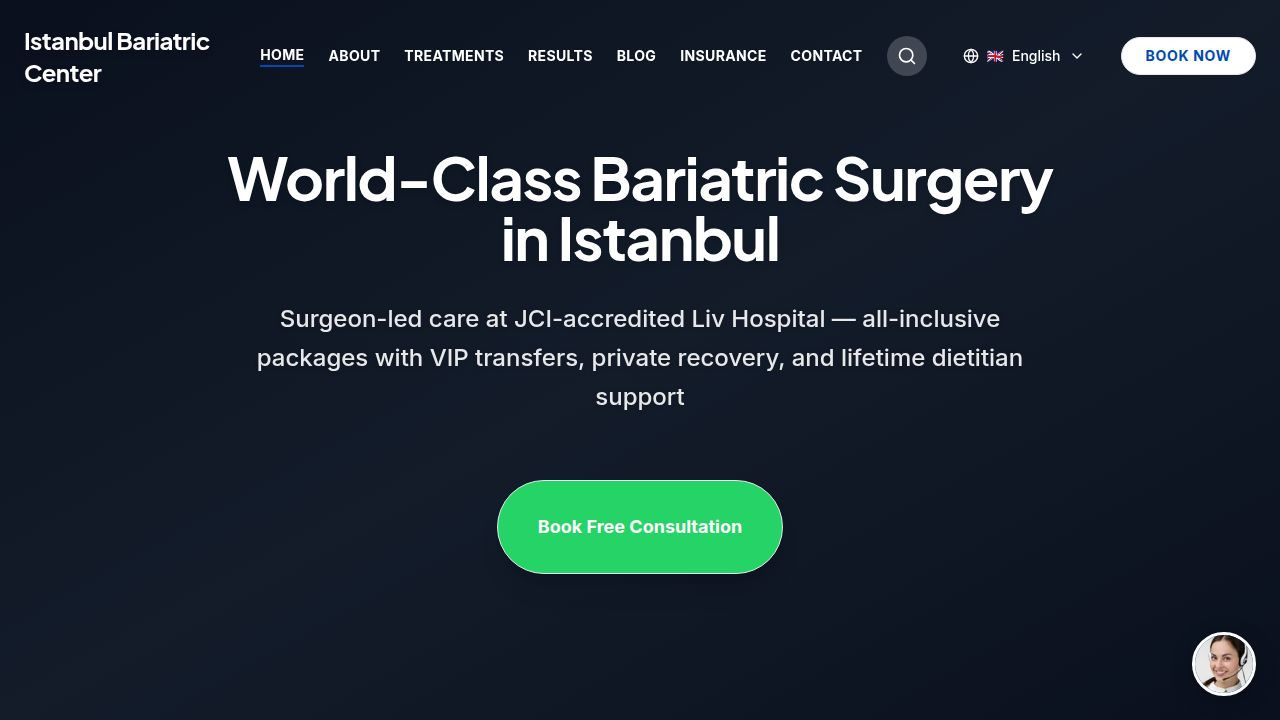
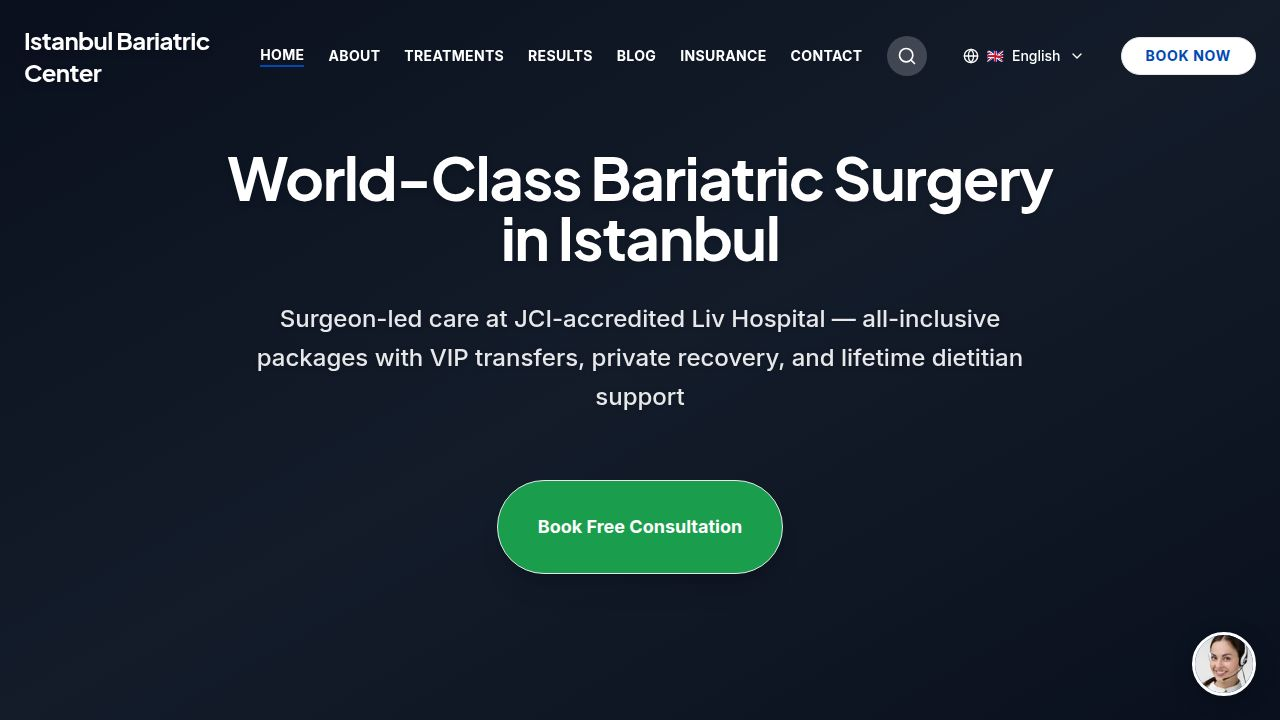
Add new blog post about ileal transposition surgery for diabetes
Adds a new blog post to `client/src/data/blog-posts.ts` detailing ileal transposition surgery for diabetes, and updates `server/seo-data.ts` and `replit.md` accordingly.

Replit-Commit-Author: Agent
Replit-Commit-Session-Id: 6d215705-d993-4a55-979c-6935727e0473
Replit-Commit-Checkpoint-Type: full_checkpoint
Replit-Commit-Event-Id: 6b8dd9d1-880f-4d2a-b2a1-ee0fcb01cec2
Replit-Commit-Screenshot-Url: https://storage.googleapis.com/screenshot-production-us-central1/63424575-081f-4c80-94dd-5da2f2b48f81/6d215705-d993-4a55-979c-6935727e0473/IMaN2Lw
Replit-Helium-Checkpoint-Created: true

Changed region(s): [[0.375, 0.6417, 0.625, 0.7944]]

diff --git a/client/src/data/blog-posts.ts b/client/src/data/blog-posts.ts
@@ -10,6 +10,214 @@ export interface BlogPost {
 
 export const blogPosts: BlogPost[] = [
   {
+    slug: "ileal-transposition-surgery-diabetes",
+    title: "Ileal Transposition Surgery for Diabetes: What Patients Need to Know",
+    date: "March 9, 2026",
+    category: "Metabolic Surgery",
+    excerpt: "Ileal transposition is an investigational metabolic procedure that repositions part of the small intestine to boost natural gut hormones like GLP-1. Learn how it works, who it is for, and why it is not yet a standard treatment for diabetes.",
+    image: "/blog-ileal-cover.webp",
+    content: `<h2>Ileal Transposition Surgery for Diabetes: A Complete Patient Guide</h2>
+<p>Type 2 diabetes is one of the most widespread chronic conditions in the world. For millions of people, managing blood sugar through diet, exercise, and medication is a lifelong challenge. Over the past two decades, bariatric and metabolic surgery has proven remarkably effective at putting type 2 diabetes into remission — sometimes even before significant weight loss occurs. This has led researchers to explore whether surgically altering the gut could treat diabetes directly, even in patients who are not severely overweight.</p>
+
+<p>One of the most intriguing procedures to emerge from this line of research is <strong>ileal transposition</strong> (IT). Unlike conventional bariatric surgeries such as gastric sleeve or gastric bypass, ileal transposition does not dramatically reduce the size of the stomach or bypass large segments of the intestine. Instead, it repositions a short segment of the lower small intestine to a higher position, triggering a powerful hormonal response that improves how the body handles glucose and insulin.</p>
+
+<p>In this article, we will explain what ileal transposition is, how it works, who might benefit from it, and why it remains an investigational procedure rather than a standard treatment option.</p>
+
+<img loading="lazy" src="/blog-ileal-cover.webp" alt="Modern hospital operating room prepared for laparoscopic metabolic surgery" class="w-full rounded-lg my-6" />
+
+<h2>What Is Ileal Transposition Surgery?</h2>
+<p>Ileal transposition is a surgical procedure in which a segment of the <strong>distal ileum</strong> (the last part of the small intestine, typically 10–20 cm) is detached and relocated to a higher position in the intestinal tract — usually near the <strong>duodenum</strong> or <strong>proximal jejunum</strong>.</p>
+
+<p>The key idea is simple but powerful: by moving this segment upstream, the food you eat reaches the ileum much sooner than it normally would. This early contact triggers the release of important gut hormones that regulate blood sugar, appetite, and metabolism.</p>
+
+<p>The procedure is typically performed <strong>laparoscopically</strong> (through small incisions) and takes approximately 2–3 hours. It requires two or three intestinal reconnections (anastomoses), making it technically more complex than a standard sleeve gastrectomy or even a gastric bypass.</p>
+
+<img loading="lazy" src="/blog-ileal-transposition-diagram.webp" alt="Anatomical diagram showing ileal transposition surgery with the distal ileum relocated to the proximal jejunum" class="w-full rounded-lg my-6" />
+
+<h2>The Science Behind It: The Hindgut Hypothesis</h2>
+<p>To understand why ileal transposition works, we need to understand a concept called the <strong>hindgut hypothesis</strong>. This theory has become one of the most important ideas in metabolic surgery.</p>
+
+<h3>How the Hindgut Hypothesis Works</h3>
+<p>Your small intestine is lined with specialised cells called <strong>L-cells</strong>, which are concentrated in the distal ileum (the "hindgut"). When partially digested food reaches these L-cells, they release two critical hormones:</p>
+
+<ul>
+<li><strong>GLP-1 (Glucagon-Like Peptide-1):</strong> This hormone stimulates the pancreas to produce insulin, suppresses glucagon (a hormone that raises blood sugar), slows gastric emptying, and reduces appetite. GLP-1 is so effective at managing diabetes that an entire class of medications — GLP-1 receptor agonists like semaglutide and liraglutide — has been developed to mimic its effects.</li>
+<li><strong>PYY (Peptide YY):</strong> This hormone signals satiety (fullness), slows gut motility, and helps regulate food intake. Together with GLP-1, it acts as a natural appetite suppressant.</li>
+</ul>
+
+<p>In a normal digestive process, food takes a relatively long time to reach the distal ileum, so L-cells are stimulated late in the digestive cycle. With ileal transposition, the relocated ileal segment is exposed to nutrients within minutes of eating, triggering a <strong>much earlier and more robust release of GLP-1 and PYY</strong>.</p>
+
+<img loading="lazy" src="/blog-ileal-glp1-mechanism.webp" alt="Medical illustration showing GLP-1 and PYY hormone release from L-cells in the ileum and their effects on insulin and appetite" class="w-full rounded-lg my-6" />
+
+<h3>What the Research Shows</h3>
+<p>Studies in both animal models and humans have demonstrated remarkable hormonal changes after ileal transposition:</p>
+
+<ul>
+<li><strong>3-fold increase</strong> in GLP-1 levels after meals</li>
+<li><strong>3-fold increase</strong> in PYY excursions</li>
+<li><strong>8-fold higher fasting PYY levels</strong></li>
+<li>Improved insulin secretion within the first week after surgery</li>
+<li>Better blood sugar control that often precedes any significant weight loss</li>
+</ul>
+
+<p>This last point is particularly important. In many patients, diabetes improvement begins <strong>before they lose substantial weight</strong>, suggesting that the hormonal changes — not weight loss — are the primary driver of metabolic improvement.</p>
+
+<h2>Beyond GLP-1: Additional Mechanisms</h2>
+<p>While the GLP-1 and PYY response is the best-known effect of ileal transposition, researchers have identified several additional mechanisms that contribute to its metabolic benefits:</p>
+
+<h3>Bile Acid Signalling</h3>
+<p>The transposed ileal segment absorbs bile acids earlier in the digestive process. Bile acids are now understood to act as signalling molecules that stimulate GLP-1 secretion, improve lipid profiles, and enhance glucose homeostasis. They also activate a receptor called <strong>TGR5</strong>, which increases energy expenditure.</p>
+
+<h3>Pancreatic Beta-Cell Preservation</h3>
+<p>One of the most promising findings from animal studies is that ileal transposition appears to <strong>protect and preserve beta cells</strong> — the insulin-producing cells in the pancreas. Research in diabetic rat models has shown greater pancreatic insulin content, better beta-cell architecture, and reduced beta-cell loss after the procedure.</p>
+
+<h3>Changes at the Tissue Level</h3>
+<p>Studies have found that ileal transposition leads to:</p>
+<ul>
+<li>Increased expression of <strong>GLUT-4</strong> (a glucose transporter) in muscle tissue, improving glucose uptake</li>
+<li>Upregulation of <strong>AMPK</strong>, an enzyme that helps regulate energy balance</li>
+<li>Reduced endoplasmic reticulum stress in fat, muscle, liver, and pancreatic tissue</li>
+<li>"Browning" of white adipose tissue, which increases calorie burning</li>
+<li>Smaller fat cell (adipocyte) size and reduced ectopic fat deposition</li>
+</ul>
+
+<h3>Structural Adaptation of the Intestine</h3>
+<p>After surgery, the transposed ileal segment undergoes a fascinating transformation. The tissue adapts to its new location through a process called <strong>"jejunisation"</strong> — it develops longer villi, increased crypt depth, and greater density of enterocytes. This essentially means the transposed segment becomes more efficient at absorbing nutrients and producing hormones over time.</p>
+
+<h2>Who Might Benefit from Ileal Transposition?</h2>
+<p>Ileal transposition has been studied primarily in the following patient groups:</p>
+
+<ul>
+<li><strong>Non-obese patients with type 2 diabetes (BMI under 30):</strong> This is the group where ileal transposition offers something unique, as most standard bariatric procedures are not recommended for patients with a BMI below 30.</li>
+<li><strong>Mildly obese patients with poorly controlled diabetes (BMI 30–35):</strong> In this group, metabolic surgery is conditionally recommended by some guidelines, and ileal transposition has shown promising results.</li>
+<li><strong>Patients who have not responded to medical therapy:</strong> Those who have tried multiple oral medications and injectable therapies without achieving adequate blood sugar control.</li>
+</ul>
+
+<h3>Current Guideline Recommendations</h3>
+<p>It is important to understand where ileal transposition stands relative to established guidelines:</p>
+
+<table>
+<thead>
+<tr><th>BMI Range</th><th>Guideline Recommendation</th></tr>
+</thead>
+<tbody>
+<tr><td>BMI ≥ 40</td><td>Metabolic surgery recommended</td></tr>
+<tr><td>BMI 35–39.9 with diabetes</td><td>Metabolic surgery recommended</td></tr>
+<tr><td>BMI 30–34.9 with uncontrolled diabetes</td><td>Metabolic surgery may be considered</td></tr>
+<tr><td>BMI &lt; 30</td><td>Surgery not currently recommended in guidelines</td></tr>
+</tbody>
+</table>
+
+<p>Guidelines from the <strong>Diabetes Surgery Summit (DSS-II)</strong>, the <strong>American Society for Metabolic and Bariatric Surgery (ASMBS)</strong>, the <strong>International Diabetes Federation (IDF)</strong>, and <strong>NICE (UK)</strong> all emphasise that new metabolic procedures like ileal transposition should only be performed in research settings until they are proven safe and effective through well-designed trials.</p>
+
+<h2>Why Ileal Transposition Is Not Yet a Standard Treatment</h2>
+<p>Despite its promising mechanism and early results, ileal transposition has not been widely adopted for several important reasons:</p>
+
+<h3>1. Limited Evidence</h3>
+<p>Most studies on ileal transposition in humans are:</p>
+<ul>
+<li>Small (fewer than 200 patients)</li>
+<li>Non-randomised</li>
+<li>Conducted at a single centre</li>
+<li>Lacking long-term follow-up beyond 2–3 years</li>
+</ul>
+<p>There are very few randomised controlled trials — the gold standard for medical evidence — comparing ileal transposition to established procedures or medical therapy.</p>
+
+<h3>2. Surgical Complexity</h3>
+<p>Compared with a gastric sleeve (which requires one staple line) or even a gastric bypass (which requires two connections), ileal transposition involves multiple intestinal anastomoses and bowel transposition. This increases operating time and the potential for surgical complications.</p>
+
+<h3>3. Potential Complications</h3>
+<p>Risks associated with ileal transposition include:</p>
+<ul>
+<li>Bowel obstruction</li>
+<li>Internal hernia</li>
+<li>Anastomotic leak</li>
+<li>Malabsorption of certain nutrients</li>
+<li>Long-term nutritional deficiencies that are not yet fully characterised</li>
+</ul>
+
+<h3>4. Competition from New Medications</h3>
+<p>The rapid development of <strong>GLP-1 receptor agonists</strong> (such as semaglutide, liraglutide, and tirzepatide) has changed the landscape for diabetes and weight management. These injectable medications mimic the very hormones that ileal transposition aims to boost — GLP-1 and related incretins — without the need for surgery. For non-obese diabetic patients, many clinicians now favour these medications over investigational surgical procedures.</p>
+
+<h2>Ileal Transposition vs Other Metabolic Procedures</h2>
+<p>Ileal transposition is not the only procedure designed to treat diabetes through intestinal manipulation. Several related procedures have emerged, each with its own approach:</p>
+
+<h3>DSIT (Diverted Sleeve Gastrectomy with Ileal Transposition)</h3>
+<p>DSIT combines a sleeve gastrectomy with duodenal transection and ileal transposition. Studies from Turkey involving over 350 patients have reported diabetes remission rates of approximately <strong>80–86%</strong> at one year, with HbA1c dropping from an average of 9.2% to 6.1%. However, DSIT is a more extensive operation than standard ileal transposition.</p>
+
+<h3>SASI (Single Anastomosis Sleeve Ileal Bypass)</h3>
+<p>SASI is a simpler procedure that combines a sleeve gastrectomy with a single connection between the stomach and the ileum, preserving normal digestive continuity. A 2025 meta-analysis of over 2,500 patients across 38 studies reported a diabetes remission rate of approximately <strong>93%</strong>. Its relative simplicity has made it more popular than pure ileal transposition in some centres.</p>
+
+<h3>SADI-S (Single Anastomosis Duodeno-Ileal Bypass with Sleeve Gastrectomy)</h3>
+<p>SADI-S involves a sleeve gastrectomy plus a single connection between the duodenum and the ileum, bypassing a larger segment of the small intestine. It produces very strong metabolic effects but carries a higher risk of malabsorptive complications.</p>
+
+<h3>Standard Gastric Bypass (RYGB)</h3>
+<p>Roux-en-Y gastric bypass remains the most well-studied metabolic procedure, with diabetes remission rates of <strong>60–80%</strong> at 5 years. It combines both the "foregut" (exclusion of the duodenum) and "hindgut" (earlier nutrient delivery to the ileum) effects, making it a well-rounded metabolic operation.</p>
+
+<h2>The Debate: Should BMI Define Diabetes Surgery?</h2>
+<p>One of the most controversial topics in metabolic surgery is whether <strong>BMI should be the primary criterion</strong> for determining who qualifies for diabetes surgery. Traditionally, bariatric surgery has been reserved for patients with a BMI of 35 or above (or 40 without comorbidities). But an increasing body of evidence suggests that metabolic surgery can benefit diabetic patients with much lower BMIs.</p>
+
+<p>Proponents of expanding surgical criteria argue that:</p>
+<ul>
+<li>Diabetes remission after surgery is often <strong>independent of weight loss</strong>, driven by hormonal changes</li>
+<li>Patients with shorter diabetes duration and lower BMI often have <strong>better surgical outcomes</strong></li>
+<li>Asian populations develop type 2 diabetes at significantly lower BMIs, and guidelines already use lower thresholds (BMI 27.5) for these groups</li>
+<li>Waiting for severe obesity to develop before offering metabolic surgery may allow irreversible beta-cell damage</li>
+</ul>
+
+<p>Opponents counter that:</p>
+<ul>
+<li>Long-term data on surgery for non-obese diabetics is <strong>insufficient</strong></li>
+<li>The risk-benefit ratio of surgery changes significantly at lower BMIs</li>
+<li>New medications like GLP-1 agonists offer non-surgical alternatives</li>
+<li>Surgical complications, however rare, carry lifelong consequences</li>
+</ul>
+
+<p>This debate is central to the future of procedures like ileal transposition, which are specifically designed for non-obese diabetic patients.</p>
+
+<h2>Where Ileal Transposition Is Performed Today</h2>
+<p>As of 2026, ileal transposition is performed at a limited number of specialised centres worldwide, primarily in:</p>
+<ul>
+<li><strong>Turkey:</strong> Several metabolic surgery centres have performed the largest case series</li>
+<li><strong>India:</strong> Select centres offer variations of the procedure</li>
+<li><strong>Brazil:</strong> Where much of the original research was conducted</li>
+<li><strong>Europe and Latin America:</strong> A handful of research-oriented centres</li>
+</ul>
+
+<p>The procedure is often performed under various names, including diverted sleeve gastrectomy with ileal transposition (DSIT), sleeve gastrectomy with ileal interposition, and metabolic surgery for non-obese diabetes. None of these are currently recognised as standard operations in international bariatric surgery guidelines.</p>
+
+<h2>The Future of Ileal Transposition</h2>
+<p>While ileal transposition is not a standard treatment today, the scientific principles behind it have profoundly influenced our understanding of metabolic surgery. The hindgut hypothesis has been validated through numerous studies, and the importance of GLP-1 in diabetes management is now universally accepted.</p>
+
+<p>Looking ahead, several developments could shape the future of this procedure:</p>
+<ul>
+<li><strong>Larger clinical trials:</strong> Multi-centre, randomised studies comparing ileal transposition to medical therapy and established surgical procedures</li>
+<li><strong>Patient selection tools:</strong> Better biomarkers and criteria to identify which patients are most likely to benefit</li>
+<li><strong>Combination approaches:</strong> Pairing ileal transposition with other techniques (such as sleeve gastrectomy) to optimise both metabolic and weight-loss outcomes</li>
+<li><strong>Less invasive alternatives:</strong> Endoscopic approaches that could deliver similar hormonal effects without open surgery</li>
+</ul>
+
+<h2>Key Takeaways for Patients</h2>
+<p>If you are considering metabolic surgery for type 2 diabetes, here are the most important points to remember about ileal transposition:</p>
+
+<ul>
+<li><strong>It is investigational:</strong> Ileal transposition is not a standard, guideline-approved treatment. It should only be performed in research settings or at specialised centres with extensive experience.</li>
+<li><strong>The science is promising:</strong> The procedure targets real, well-understood hormonal pathways (GLP-1, PYY) that are central to diabetes management.</li>
+<li><strong>Proven alternatives exist:</strong> Gastric sleeve, gastric bypass, and newer procedures like SASI have much larger evidence bases and well-established safety profiles.</li>
+<li><strong>Medication options are expanding:</strong> GLP-1 receptor agonists and dual incretin therapies offer powerful non-surgical options for many patients.</li>
+<li><strong>Consult a qualified specialist:</strong> Any decision about metabolic surgery should involve a multidisciplinary team including a metabolic surgeon, endocrinologist, dietitian, and psychologist.</li>
+</ul>
+
+<h2>Conclusion</h2>
+<p>Ileal transposition represents one of the most intellectually fascinating approaches in metabolic surgery. By simply moving a segment of the small intestine to a new position, surgeons can trigger a cascade of hormonal changes that dramatically improve blood sugar control — often before any weight is lost. The procedure has deepened our understanding of how the gut communicates with the pancreas, brain, and other organs to regulate metabolism.</p>
+
+<p>However, fascinating science does not automatically translate into standard clinical practice. Until larger, well-designed trials confirm its long-term safety and efficacy, ileal transposition remains an investigational procedure. For most patients with type 2 diabetes, proven options — from lifestyle changes and medications to established metabolic surgeries — should be the first line of treatment.</p>
+
+<p>At Istanbul Bariatric Center, we stay at the forefront of metabolic surgery research and offer a full range of proven bariatric procedures. If you have type 2 diabetes and are exploring your surgical options, our team — led by experienced metabolic surgeons — can help you find the right approach for your individual situation.</p>
+
+<p><strong>Contact us today for a free consultation</strong> to discuss whether metabolic surgery could help you achieve diabetes remission and a healthier life.</p>`
+  },
+  {
     slug: "gastric-fundus-mucosal-ablation-gfma-latest-news",
     title: "Gastric Fundus Mucosal Ablation (GFMA) Latest News",
     date: "May 11, 2025",

diff --git a/server/seo-data.ts b/server/seo-data.ts
@@ -291,6 +291,7 @@ interface BlogPostSEO {
 }
 
 const blogPosts: BlogPostSEO[] = [
+  { slug: "ileal-transposition-surgery-diabetes", title: "Ileal Transposition Surgery for Diabetes: What Patients Need to Know", excerpt: "Ileal transposition is an investigational metabolic procedure that repositions part of the small intestine to boost natural gut hormones like GLP-1. Learn how it works, who it is for, and why it is not yet a standard treatment for diabetes.", date: "March 9, 2026", image: "/blog-ileal-cover.webp" },
   { slug: "gastric-fundus-mucosal-ablation-gfma-latest-news", title: "Gastric Fundus Mucosal Ablation (GFMA) Latest News", excerpt: "GFMA: A New Era in Non-Surgical Weight Loss. Recent studies suggest an endoscopic procedure could curb hunger and achieve surgical-level weight loss without any incisions.", date: "May 11, 2025", image: "/blog-gfma.webp" },
   { slug: "scientific-blind-alleys-dietary-fat-sugar-freud-and-adler", title: "Scientific Blind Alleys: Dietary Fat, Sugar, Freud, and Adler", excerpt: "How Two Historic Health Myths Shaped Today's Obesity Crisis — and How We Can Fix It.", date: "April 26, 2025", image: "/blog-scientific-blind-alleys.webp" },
   { slug: "minimizer-ring", title: "Minimizer Ring: What is it and what is it used for?", excerpt: "The MiniMIZER® Ring in Bariatric Surgery: Enhancing Outcomes in Primary and Revisional Procedures.", date: "April 19, 2025", image: "/blog-minimizer-ring.webp" },

diff --git a/replit.md b/replit.md
@@ -100,7 +100,7 @@ The backend serves the React SPA in production and provides API endpoints for co
 
 ### Server-Side SEO Injection (SPA SSR)
 - **Architecture**: React SPA with server-side content injection for crawlers
-- **SEO Data**: `server/seo-data.ts` — Rich content definitions for all 15 static pages + 45 blog posts, including titles, descriptions, full page content, and JSON-LD schemas
+- **SEO Data**: `server/seo-data.ts` — Rich content definitions for all 15 static pages + 48 blog posts, including titles, descriptions, full page content, and JSON-LD schemas
 - **SEO Injection**: `server/seo-inject.ts` — Injects into HTML: meta tags (title, description, OG, Twitter, canonical), JSON-LD structured data, rich crawlable content div, noscript fallback, navigation links, blog article index
 - **Blog Content Injection**: Full blog post HTML content extracted from `client/src/data/blog-posts.ts` and injected server-side for each blog URL
 - **Vite Dev Integration**: `server/vite.ts` — SSR injection also works in development mode
